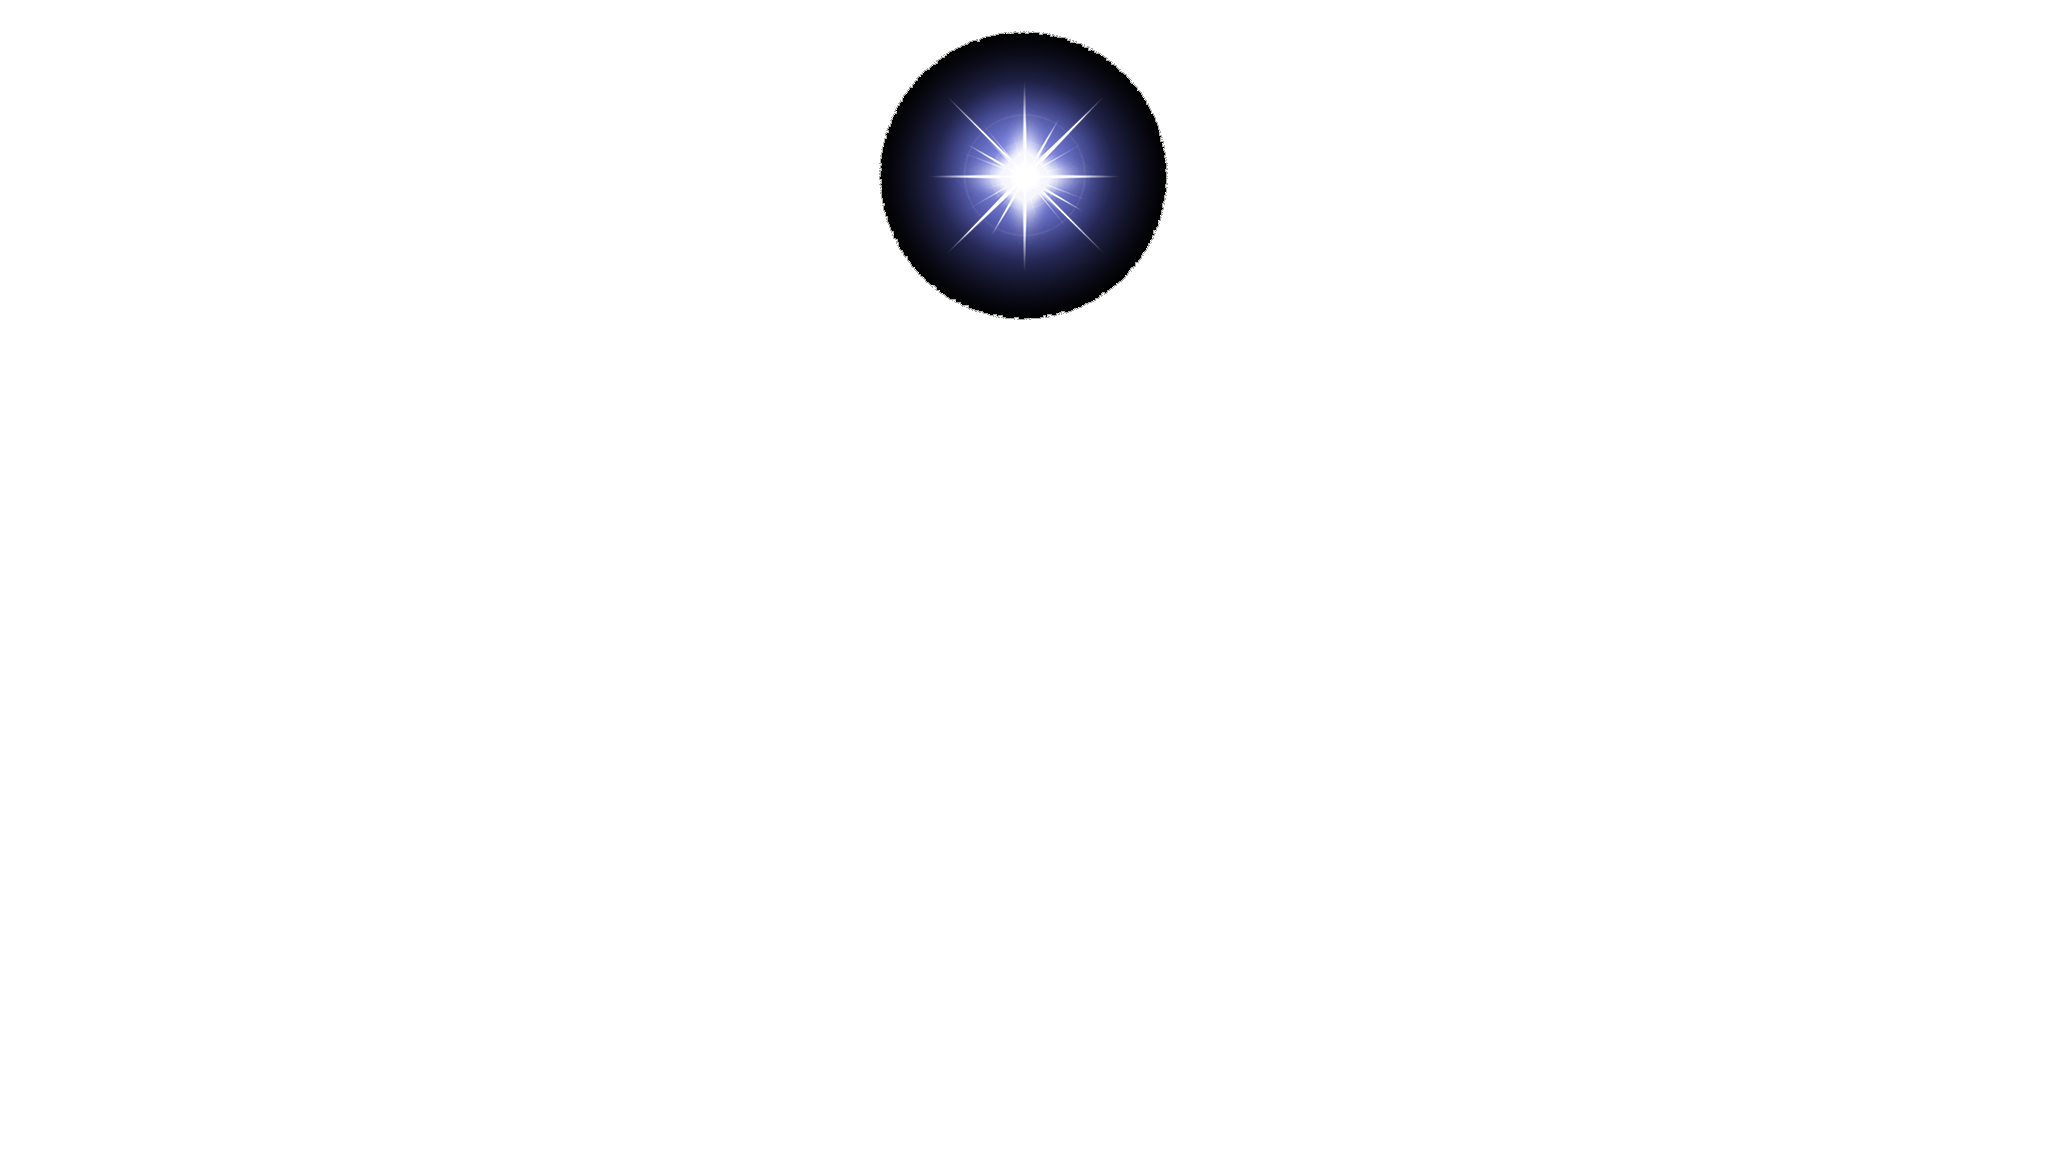
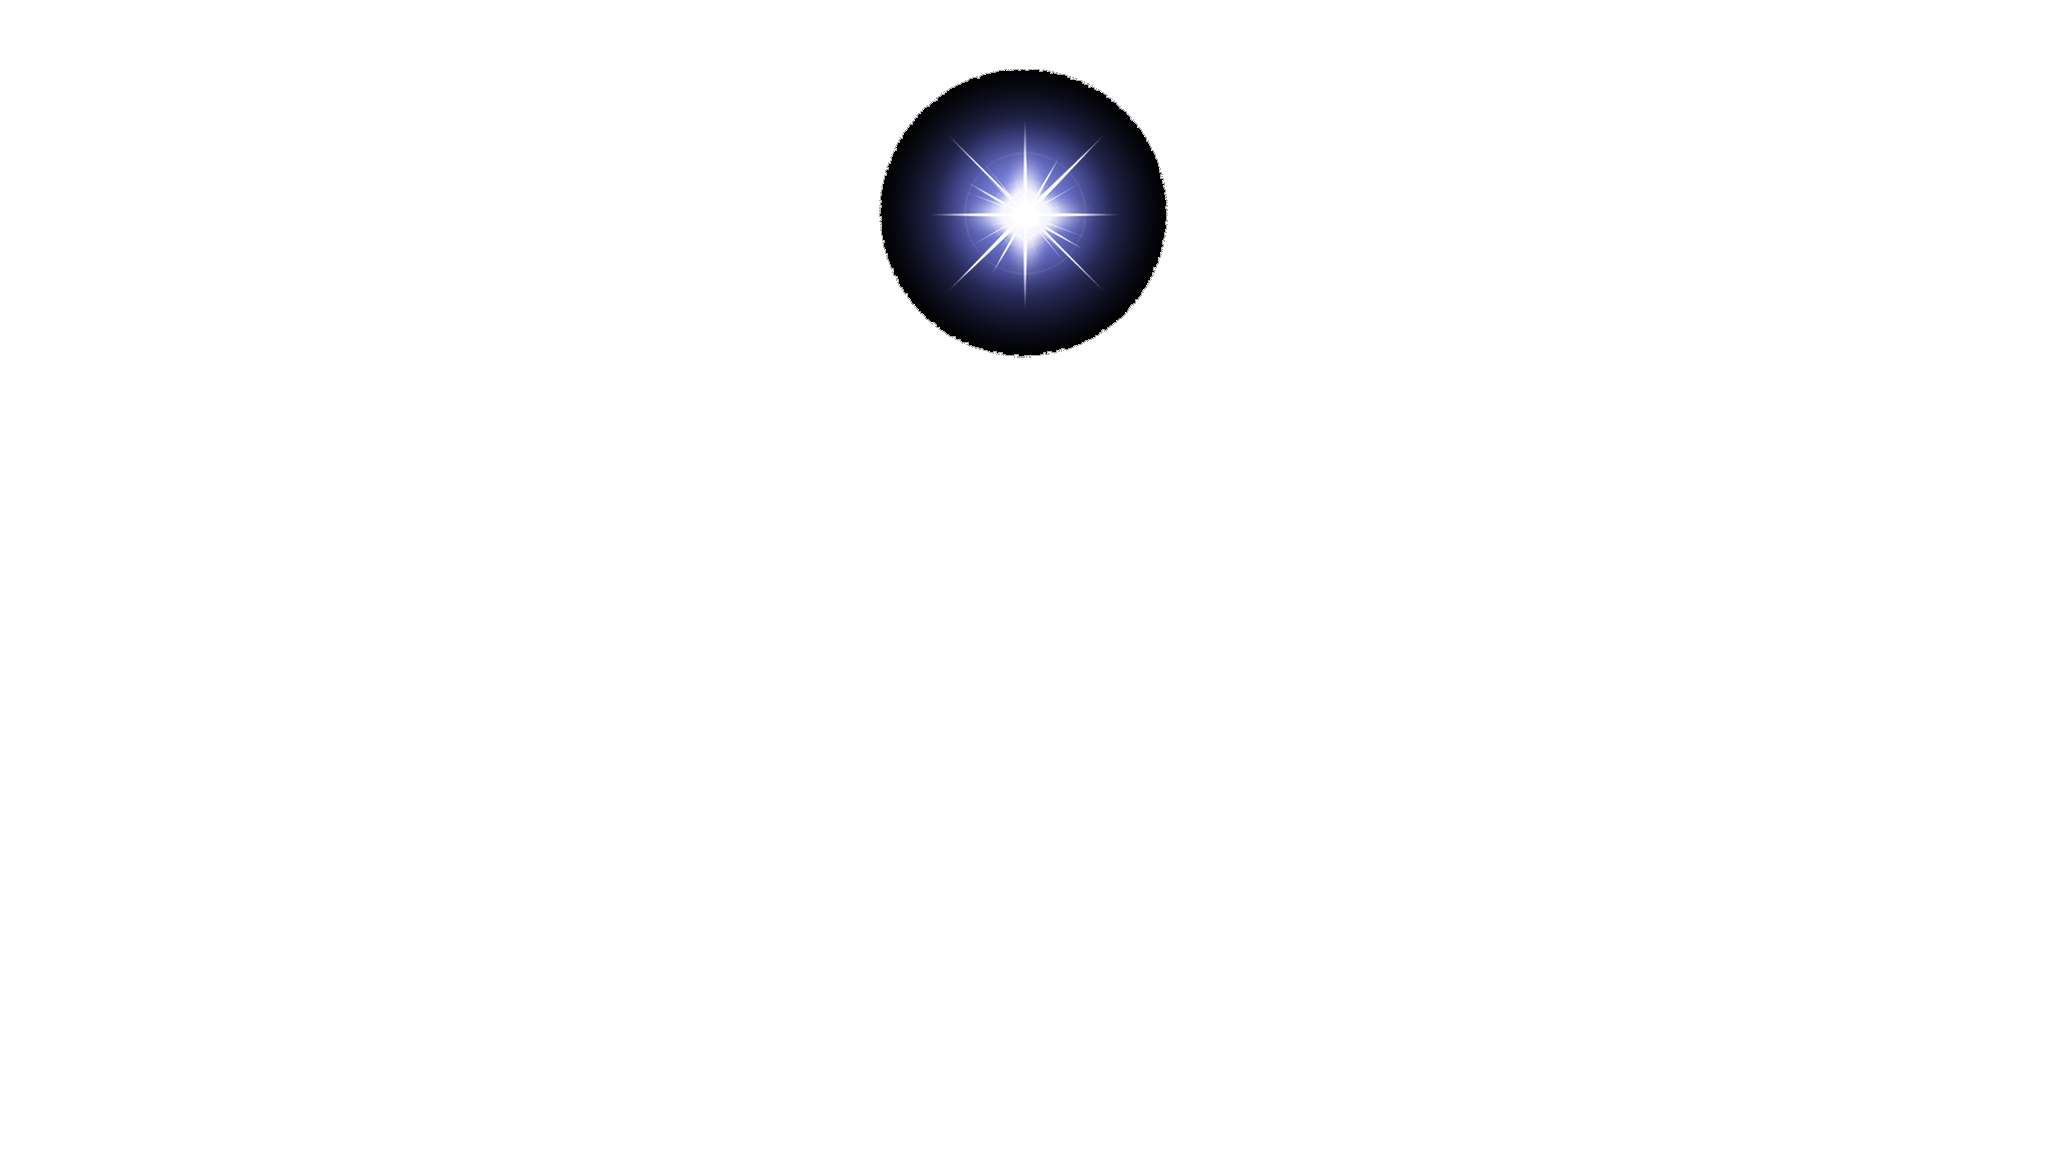
16-05

Changed region(s): [[0.4061, 0.0312, 0.5935, 0.3125]]

diff --git a/index.html b/index.html
@@ -6,9 +6,8 @@
     <meta name="viewport" content="width=device-width, initial-scale=1.0">
     <title>Link Tree</title>
     <link rel="stylesheet" type="text/css" href="style.css">
-    <script src="script.js"></script>
- <!-- font awesome para los links
- normalize para que se vea igual en todos los browsers -->
+
+    
 
 </head>
 
@@ -17,16 +16,64 @@
     <header>
         <a href="#" class="logo">Logo</a>
         <ul>
-            <li><a href="#">Portfolio</a></li>
-            <li><a href="#">Sobre mí</a></li>
-            <li><a href="#">Contacto</a></li>
+            <li><a href="#seccion">Portfolio</a></li>
+            <li><a href="#seccion2">Sobre mí</a></li>
+            <li><a href="#seccion3">Contacto</a></li>
         </ul>
     </header>
     <section>
         <img src="images/Estrellas.png" id="Estrellas">
-        <img src="images/Mountain1.png" id="Mountain1">
         <img src="images/Star.png" id="Star">
+        <img src="images/Mountain1.png" id="Mountain1">
+        <h2 id="texto"> Web Design </h2>
+        <img src="images/Mountain2m.png" id="Mountain2">
+        <img src="images/Pinos.png" id="Pinos">
+        <a href="#seccion" id="btn">Explorar</a>
     </section>
 
+    <div class="seccion" id="seccion">
+        <h2>Portfolio</h2>
+        <br><br><br><br>
+        <br><br><br><br>
+        <p>Lorem ipsum dolor sit amet consectetur adipisicing elit. Consectetur, minima exercitationem quia illum nesciunt eveniet nostrum nobis eligendi facilis distinctio sed id quas dicta tempora voluptate non magnam saepe. Id aspernatur nam optio ipsam, excepturi accusamus vitae laudantium aliquam reprehenderit. Ullam, debitis? Maiores autem fuga officia, impedit esse sequi facere deleniti quidem nobis minus est id quos minima nam eum inventore nemo suscipit. Saepe nulla fugiat, ipsam suscipit voluptatum modi voluptates aperiam itaque doloremque laboriosam ad quaerat dolores iure, quam reiciendis quas, illum deleniti dolore! Ullam placeat magnam provident in quibusdam, amet doloremque voluptatum perspiciatis sequi nisi blanditiis, dolore, voluptatibus ex atque corrupti quisquam fugiat doloribus quidem? Ipsam veritatis laborum sunt consequuntur autem harum sapiente itaque blanditiis voluptatum beatae sit inventore cupiditate ipsa nulla cum, pariatur deleniti culpa assumenda modi! Cum laudantium neque sequi doloremque, nisi, non quidem voluptatum facilis ullam quibusdam assumenda adipisci sed, rem vitae doloribus vel soluta expedita illo cupiditate eveniet sunt nulla est! Commodi sint alias dolor voluptas aspernatur quae obcaecati praesentium officia fugit quasi nihil doloremque nostrum, eveniet ipsa qui nobis numquam similique. Expedita aliquid deserunt in exercitationem reiciendis neque est nam voluptate cum quo? Aperiam, enim distinctio cumque assumenda iusto unde cum? Quas, quis.
+            <br><br>
+        <p>Lorem ipsum dolor sit amet consectetur adipisicing elit. Eum laudantium saepe cupiditate excepturi nisi voluptates quam. Unde et sit omnis molestiae amet nam, aliquid voluptate quidem totam exercitationem accusantium sint ullam aliquam, minima asperiores pariatur saepe dolores numquam excepturi beatae, repellendus maiores consequuntur eaque. Facilis sint beatae recusandae voluptatibus ab! Nulla rerum quos labore perferendis voluptatem aliquam veniam similique, quod ab culpa. Optio asperiores quibusdam sit id laboriosam rerum animi quidem, veritatis cum repudiandae voluptatum blanditiis totam eos ipsam illo, ut at nam. Quam atque pariatur dolores molestias neque earum quidem numquam id minima amet sapiente beatae esse at, tempore nam aliquid laudantium velit suscipit dignissimos deleniti nobis nulla? Nam aliquid impedit voluptates dolor odit corporis velit nemo et quaerat animi, quos ut voluptatibus optio odio omnis, perspiciatis voluptate non? Deleniti iusto vel, unde suscipit nemo quae hic dolores quos non numquam modi accusantium beatae, officiis fugiat? Saepe magnam maiores modi aperiam quia est voluptates libero molestiae beatae eligendi asperiores labore possimus, hic totam porro a suscipit mollitia aut veritatis! Similique, voluptate optio. Quaerat sapiente laboriosam modi porro dolores quam, assumenda nobis animi quae dicta ex omnis, quos fuga. Quidem asperiores accusamus inventore omnis placeat a doloremque sint distinctio molestiae!
+        </p>
+        <br><br>
+        <p>Lorem ipsum dolor sit amet consectetur adipisicing elit. Eum laudantium saepe cupiditate excepturi nisi voluptates quam. Unde et sit omnis molestiae amet nam, aliquid voluptate quidem totam exercitationem accusantium sint ullam aliquam, minima asperiores pariatur saepe dolores numquam excepturi beatae, repellendus maiores consequuntur eaque. Facilis sint beatae recusandae voluptatibus ab! Nulla rerum quos labore perferendis voluptatem aliquam veniam similique, quod ab culpa. Optio asperiores quibusdam sit id laboriosam rerum animi quidem, veritatis cum repudiandae voluptatum blanditiis totam eos ipsam illo, ut at nam. Quam atque pariatur dolores molestias neque earum quidem numquam id minima amet sapiente beatae esse at, tempore nam aliquid laudantium velit suscipit dignissimos deleniti nobis nulla? Nam aliquid impedit voluptates dolor odit corporis velit nemo et quaerat animi, quos ut voluptatibus optio odio omnis, perspiciatis voluptate non? Deleniti iusto vel, unde suscipit nemo quae hic dolores quos non numquam modi accusantium beatae, officiis fugiat? Saepe magnam maiores modi aperiam quia est voluptates libero molestiae beatae eligendi asperiores labore possimus, hic totam porro a suscipit mollitia aut veritatis! Similique, voluptate optio. Quaerat sapiente laboriosam modi porro dolores quam, assumenda nobis animi quae dicta ex omnis, quos fuga. Quidem asperiores accusamus inventore omnis placeat a doloremque sint distinctio molestiae!
+        </p>
+    </div>
+
+    
+    <div class="seccion2" id="seccion2">
+        <h2>Sobre mí</h2>
+        <br><br><br><br>
+        <br><br><br><br>
+        <p>Lorem ipsum dolor sit amet consectetur adipisicing elit. Consectetur, minima exercitationem quia illum nesciunt eveniet nostrum nobis eligendi facilis distinctio sed id quas dicta tempora voluptate non magnam saepe. Id aspernatur nam optio ipsam, excepturi accusamus vitae laudantium aliquam reprehenderit. Ullam, debitis? Maiores autem fuga officia, impedit esse sequi facere deleniti quidem nobis minus est id quos minima nam eum inventore nemo suscipit. Saepe nulla fugiat, ipsam suscipit voluptatum modi voluptates aperiam itaque doloremque laboriosam ad quaerat dolores iure, quam reiciendis quas, illum deleniti dolore! Ullam placeat magnam provident in quibusdam, amet doloremque voluptatum perspiciatis sequi nisi blanditiis, dolore, voluptatibus ex atque corrupti quisquam fugiat doloribus quidem? Ipsam veritatis laborum sunt consequuntur autem harum sapiente itaque blanditiis voluptatum beatae sit inventore cupiditate ipsa nulla cum, pariatur deleniti culpa assumenda modi! Cum laudantium neque sequi doloremque, nisi, non quidem voluptatum facilis ullam quibusdam assumenda adipisci sed, rem vitae doloribus vel soluta expedita illo cupiditate eveniet sunt nulla est! Commodi sint alias dolor voluptas aspernatur quae obcaecati praesentium officia fugit quasi nihil doloremque nostrum, eveniet ipsa qui nobis numquam similique. Expedita aliquid deserunt in exercitationem reiciendis neque est nam voluptate cum quo? Aperiam, enim distinctio cumque assumenda iusto unde cum? Quas, quis.
+            <br><br>
+        <p>Lorem ipsum dolor sit amet consectetur adipisicing elit. Eum laudantium saepe cupiditate excepturi nisi voluptates quam. Unde et sit omnis molestiae amet nam, aliquid voluptate quidem totam exercitationem accusantium sint ullam aliquam, minima asperiores pariatur saepe dolores numquam excepturi beatae, repellendus maiores consequuntur eaque. Facilis sint beatae recusandae voluptatibus ab! Nulla rerum quos labore perferendis voluptatem aliquam veniam similique, quod ab culpa. Optio asperiores quibusdam sit id laboriosam rerum animi quidem, veritatis cum repudiandae voluptatum blanditiis totam eos ipsam illo, ut at nam. Quam atque pariatur dolores molestias neque earum quidem numquam id minima amet sapiente beatae esse at, tempore nam aliquid laudantium velit suscipit dignissimos deleniti nobis nulla? Nam aliquid impedit voluptates dolor odit corporis velit nemo et quaerat animi, quos ut voluptatibus optio odio omnis, perspiciatis voluptate non? Deleniti iusto vel, unde suscipit nemo quae hic dolores quos non numquam modi accusantium beatae, officiis fugiat? Saepe magnam maiores modi aperiam quia est voluptates libero molestiae beatae eligendi asperiores labore possimus, hic totam porro a suscipit mollitia aut veritatis! Similique, voluptate optio. Quaerat sapiente laboriosam modi porro dolores quam, assumenda nobis animi quae dicta ex omnis, quos fuga. Quidem asperiores accusamus inventore omnis placeat a doloremque sint distinctio molestiae!
+        </p>
+        <br><br>
+        <p>Lorem ipsum dolor sit amet consectetur adipisicing elit. Eum laudantium saepe cupiditate excepturi nisi voluptates quam. Unde et sit omnis molestiae amet nam, aliquid voluptate quidem totam exercitationem accusantium sint ullam aliquam, minima asperiores pariatur saepe dolores numquam excepturi beatae, repellendus maiores consequuntur eaque. Facilis sint beatae recusandae voluptatibus ab! Nulla rerum quos labore perferendis voluptatem aliquam veniam similique, quod ab culpa. Optio asperiores quibusdam sit id laboriosam rerum animi quidem, veritatis cum repudiandae voluptatum blanditiis totam eos ipsam illo, ut at nam. Quam atque pariatur dolores molestias neque earum quidem numquam id minima amet sapiente beatae esse at, tempore nam aliquid laudantium velit suscipit dignissimos deleniti nobis nulla? Nam aliquid impedit voluptates dolor odit corporis velit nemo et quaerat animi, quos ut voluptatibus optio odio omnis, perspiciatis voluptate non? Deleniti iusto vel, unde suscipit nemo quae hic dolores quos non numquam modi accusantium beatae, officiis fugiat? Saepe magnam maiores modi aperiam quia est voluptates libero molestiae beatae eligendi asperiores labore possimus, hic totam porro a suscipit mollitia aut veritatis! Similique, voluptate optio. Quaerat sapiente laboriosam modi porro dolores quam, assumenda nobis animi quae dicta ex omnis, quos fuga. Quidem asperiores accusamus inventore omnis placeat a doloremque sint distinctio molestiae!
+        </p>
+    </div>
+
+    
+    <div class="seccion3" id="seccion3">
+        <h2>Contacto</h2>
+        <br><br><br><br>
+        <br><br><br><br>
+        <p>Lorem ipsum dolor sit amet consectetur adipisicing elit. Consectetur, minima exercitationem quia illum nesciunt eveniet nostrum nobis eligendi facilis distinctio sed id quas dicta tempora voluptate non magnam saepe. Id aspernatur nam optio ipsam, excepturi accusamus vitae laudantium aliquam reprehenderit. Ullam, debitis? Maiores autem fuga officia, impedit esse sequi facere deleniti quidem nobis minus est id quos minima nam eum inventore nemo suscipit. Saepe nulla fugiat, ipsam suscipit voluptatum modi voluptates aperiam itaque doloremque laboriosam ad quaerat dolores iure, quam reiciendis quas, illum deleniti dolore! Ullam placeat magnam provident in quibusdam, amet doloremque voluptatum perspiciatis sequi nisi blanditiis, dolore, voluptatibus ex atque corrupti quisquam fugiat doloribus quidem? Ipsam veritatis laborum sunt consequuntur autem harum sapiente itaque blanditiis voluptatum beatae sit inventore cupiditate ipsa nulla cum, pariatur deleniti culpa assumenda modi! Cum laudantium neque sequi doloremque, nisi, non quidem voluptatum facilis ullam quibusdam assumenda adipisci sed, rem vitae doloribus vel soluta expedita illo cupiditate eveniet sunt nulla est! Commodi sint alias dolor voluptas aspernatur quae obcaecati praesentium officia fugit quasi nihil doloremque nostrum, eveniet ipsa qui nobis numquam similique. Expedita aliquid deserunt in exercitationem reiciendis neque est nam voluptate cum quo? Aperiam, enim distinctio cumque assumenda iusto unde cum? Quas, quis.
+            <br><br>
+        <p>Lorem ipsum dolor sit amet consectetur adipisicing elit. Eum laudantium saepe cupiditate excepturi nisi voluptates quam. Unde et sit omnis molestiae amet nam, aliquid voluptate quidem totam exercitationem accusantium sint ullam aliquam, minima asperiores pariatur saepe dolores numquam excepturi beatae, repellendus maiores consequuntur eaque. Facilis sint beatae recusandae voluptatibus ab! Nulla rerum quos labore perferendis voluptatem aliquam veniam similique, quod ab culpa. Optio asperiores quibusdam sit id laboriosam rerum animi quidem, veritatis cum repudiandae voluptatum blanditiis totam eos ipsam illo, ut at nam. Quam atque pariatur dolores molestias neque earum quidem numquam id minima amet sapiente beatae esse at, tempore nam aliquid laudantium velit suscipit dignissimos deleniti nobis nulla? Nam aliquid impedit voluptates dolor odit corporis velit nemo et quaerat animi, quos ut voluptatibus optio odio omnis, perspiciatis voluptate non? Deleniti iusto vel, unde suscipit nemo quae hic dolores quos non numquam modi accusantium beatae, officiis fugiat? Saepe magnam maiores modi aperiam quia est voluptates libero molestiae beatae eligendi asperiores labore possimus, hic totam porro a suscipit mollitia aut veritatis! Similique, voluptate optio. Quaerat sapiente laboriosam modi porro dolores quam, assumenda nobis animi quae dicta ex omnis, quos fuga. Quidem asperiores accusamus inventore omnis placeat a doloremque sint distinctio molestiae!
+        </p>
+        <br><br>
+        <p>Lorem ipsum dolor sit amet consectetur adipisicing elit. Eum laudantium saepe cupiditate excepturi nisi voluptates quam. Unde et sit omnis molestiae amet nam, aliquid voluptate quidem totam exercitationem accusantium sint ullam aliquam, minima asperiores pariatur saepe dolores numquam excepturi beatae, repellendus maiores consequuntur eaque. Facilis sint beatae recusandae voluptatibus ab! Nulla rerum quos labore perferendis voluptatem aliquam veniam similique, quod ab culpa. Optio asperiores quibusdam sit id laboriosam rerum animi quidem, veritatis cum repudiandae voluptatum blanditiis totam eos ipsam illo, ut at nam. Quam atque pariatur dolores molestias neque earum quidem numquam id minima amet sapiente beatae esse at, tempore nam aliquid laudantium velit suscipit dignissimos deleniti nobis nulla? Nam aliquid impedit voluptates dolor odit corporis velit nemo et quaerat animi, quos ut voluptatibus optio odio omnis, perspiciatis voluptate non? Deleniti iusto vel, unde suscipit nemo quae hic dolores quos non numquam modi accusantium beatae, officiis fugiat? Saepe magnam maiores modi aperiam quia est voluptates libero molestiae beatae eligendi asperiores labore possimus, hic totam porro a suscipit mollitia aut veritatis! Similique, voluptate optio. Quaerat sapiente laboriosam modi porro dolores quam, assumenda nobis animi quae dicta ex omnis, quos fuga. Quidem asperiores accusamus inventore omnis placeat a doloremque sint distinctio molestiae!
+        </p>
+    </div>
+
+    <script src="script.js"></script>
+   
+   
 </body>
 </html>

diff --git a/style.css b/style.css
@@ -5,10 +5,13 @@ margin: 0;
 padding: 0;
 box-sizing: border-box;
 font-family: 'Dosis', sans-serif;
+scroll-behavior: smooth;
 }
 
 body {
     min-height: 100vh;
+    overflow-x: hidden;
+    overflow-y: initial;
     background: linear-gradient(#2b1055,#7597de);
 }
 
@@ -60,7 +63,19 @@ section {
     position: relative;
     width: 100%;
     height: 100vh;
-    padding: 100px;
+    display: flex;
+    justify-content: center;
+    align-items: center;
+}
+
+section::before {
+    content: '';
+    position: absolute;
+    bottom: 0;
+    width: 100%;
+    height: 100px;
+    background: linear-gradient(to top, #121117, transparent);
+    z-index: 1000;
 }
 
 section img {
@@ -76,6 +91,98 @@ section img#Star {
     mix-blend-mode: screen;
 }
 
+section img#Mountain2 {
+    z-index: 10;
+}
+section img#Pinos {
+    z-index: 11;
+}
 
+#texto { 
+    position: absolute;
+    top: 30%;
+    left: 36%;
+    color: #fff;
+    white-space: nowrap;
+    font-size: 6.5vw;
+    font-weight: 600;
+    z-index: 9;
+}
+
+#btn {
+    position: absolute;
+    top: 53%;
+    left: 47%;
+    text-decoration: none;
+    padding: 8px 30px;
+    border-radius: 40px;
+    background: #fff;
+    color:#2b1055;
+    font-size: 1.5em;
+    z-index: 12;
+}
+
+
+.seccion {
+    position: relative;
+    padding: 200px;
+    background: #121117;
+    z-index: 11;
+}
+
+.seccion h2 {
+    position: relative;
+    left: 46%;
+    font-size: 3em;
+    font-weight: 600;
+    color: #fff;
+}
+
+.seccion p {
+    font-size: 1.1em;
+    color: #fff;
+}
+
+.seccion2 {
+    position: relative;
+    padding: 200px;
+    background: #121117;
+    z-index: 11;
+}
+
+.seccion2 h2 {
+    position: relative;
+    left: 46%;
+    font-size: 3em;
+    font-weight: 600;
+    margin-bottom: 10px;
+    color: #fff;
+}
+
+.seccion2 p {
+    font-size: 1.1em;
+    color: #fff;
+}
+
+.seccion3 {
+    position: relative;
+    padding: 200px;
+    background: #121117;
+    z-index: 11;
+}
+
+.seccion3 h2 {
+    position: relative;
+    left: 46%;
+    font-size: 3em;
+    font-weight: 600;
+    margin-bottom: 10px;
+    color: #fff;
+}
+
+.seccion3 p {
+    font-size: 1.1em;
+    color: #fff;
+}
 
 

diff --git a/script.js b/script.js
@@ -1,2 +1,24 @@
-var a = 10;
-console.log(a);
+
+let estrellas = document.getElementById("Estrellas");
+let mountain1 = document.getElementById("Mountain1");
+let texto = document.getElementById("texto");
+let mountain2 = document.getElementById("Mountain2");
+let btn = document.getElementById("btn");
+let star = document.getElementById("Star");
+let pinos = document.getElementById("Pinos");
+
+window.addEventListener('scroll', function(){
+let valor = window.scrollY;
+
+estrellas.style.top = valor * 0.25 + 'px';
+star.style.top = valor * 0.85 + 'px';
+mountain1.style.top = valor * 0.25 + 'px';
+texto.style.marginTop = valor * 0.65 + 'px';
+mountain2.style.top = valor * 0.10 + 'px';
+btn.style.marginTop = valor * 0.35 + 'px';
+pinos.style.top = valor * 0 + 'px';
+
+
+
+})
+
